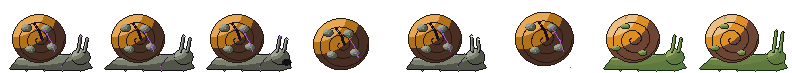
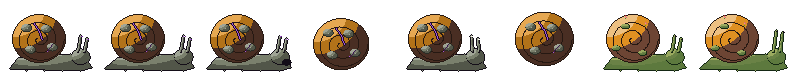
Corregir grietas y patas en Konokono, Pembe y Petrino y detallar al Jabalí de Hierro

Changed region(s): [[0.4242, 0.7671, 0.4545, 0.7945]]

diff --git a/herramientas/dibujar_criaturas.py b/herramientas/dibujar_criaturas.py
@@ -150,7 +150,9 @@ class Hoja:
         else:
             self.linea(puntos, "giza", 1, solo_encima=True)
             mitad = puntos[len(puntos) // 2]
-            self.px(mitad[0], mitad[1], "giza", brillo)
+            mx, my = int(round(mitad[0])), int(round(mitad[1]))
+            if 0 <= mx < self.w and 0 <= my < self.h and self.mat[my, mx] != "":
+                self.px(mx, my, "giza", brillo)
 
     def imagen(self, contorno=True):
         img = Image.new("RGBA", (self.w, self.h), (0, 0, 0, 0))
@@ -210,7 +212,7 @@ def corteza(h, mascara, azar, paso=3, inclinacion=0.15, desde=0):
             if mascara[y, x]:
                 u = x + math.sin(y * 0.35 + x * 0.1) * 0.8 + y * inclinacion
                 if (u + desde) % paso < 0.9 and azar.random() < 0.85:
-                    h.oscurecer(np.eye(1, dtype=bool) if False else _uno(h, x, y), 1, minimo=1)
+                    h.oscurecer(_uno(h, x, y), 1, minimo=1)
 
 
 def _uno(h, x, y):
@@ -254,18 +256,19 @@ def petrino(pose):
                 (cx + 1, arriba), (cx + 3, arriba - 2), (cx + 5, arriba + 1), (cx + 6, arriba + 2)]
     cuerpo = h.poligono(contorno + astillas[::-1])
     cuerpo |= h.poligono([(cx - 6, arriba + 2)] + astillas + [(cx + 6, arriba + 4), (cx - 6, arriba + 4)])
-    h.forma(cuerpo, "piedra", esfera=(cx - 1, arriba + 8, 9.5, 11))
+    h.forma(cuerpo, "piedra", esfera=(cx - 1.5, arriba + 7, 9.0, 10.5))
+    corteza(h, cuerpo & (h.yy >= arriba + 4), azar, paso=3, inclinacion=0.12)
     # el corte de arriba: anillos de la madera hechos piedra
     h.forma(h.elipse(cx, arriba + 2.2, 5.5, 1.6) & cuerpo, "piedra", plano=3, separar=False)
     h.px(cx - 1, arriba + 2, "piedra", 2)
     h.px(cx + 2, arriba + 2, "piedra", 2)
-    # surcos de corteza
+    # surcos de corteza y aristas iluminadas arriba a la izquierda
     for x in (cx - 5, cx - 2, cx + 3, cx + 6):
-        h.linea([(x, arriba + 5 + (x % 2)), (x + (1 if x > cx else -1) * 0.5, 18 - baja * 0.3)], "piedra", 1, solo_encima=True)
-    h.aclarar(h.elipse(cx - 4, arriba + 7, 1.2, 3) & cuerpo, 1)
+        h.linea([(x, arriba + 5 + (x % 2)), (x + (1 if x > cx else -1) * 0.5, 17 - baja * 0.3)], "piedra", 1, solo_encima=True)
+    h.aclarar(h.elipse(cx - 4.5, arriba + 6.5, 1.8, 3.5) & cuerpo, 1)
     # nudo como nariz
-    h.forma(h.elipse(cx + 0.5, arriba + 8.5, 1.6, 1.3), "piedra", maximo=3)
-    h.px(cx + 1, arriba + 9, "piedra", 0)
+    h.forma(h.elipse(cx + 0.5, arriba + 8.0, 1.6, 1.3), "piedra", maximo=3)
+    h.px(cx + 1, arriba + 8.5, "piedra", 0)
     # ojos de grieta
     ojo_y = arriba + 6
     for ox in (-3, 3):
@@ -287,15 +290,16 @@ def petrino(pose):
         for ox in (-3, 3):
             h.px(cx + ox - 1, ojo_y - 1, "giza", 3)
             h.px(cx + ox + 1, ojo_y - 1, "giza", 3)
-    # corazón violeta del pecho y sus venas
-    pecho = (cx - 1, arriba + 12)
-    h.grieta([(pecho[0] - 3, pecho[1] - 2), (pecho[0] - 1, pecho[1]), (pecho[0], pecho[1] + 2), (pecho[0] + 2, pecho[1] + 3)])
-    h.px(pecho[0], pecho[1] + 1, "giza", 3)
-    h.px(pecho[0] - 1, pecho[1], "giza", 2)
-    # líquen muerto y una piedrecita encima
-    for (x, y) in ((cx - 6, arriba + 10), (cx - 5, arriba + 11), (cx + 5, arriba + 13), (cx + 6, arriba + 12)):
+    # corazón violeta del pecho y sus venas (dentro del torso, sin salirse por abajo)
+    pecho = (cx - 1, arriba + 10)
+    h.grieta([(pecho[0] - 3, pecho[1] - 1), (pecho[0] - 1, pecho[1]), (pecho[0], pecho[1] + 1), (pecho[0] + 2, pecho[1] + 2)])
+    h.px(pecho[0], pecho[1], "giza", 3)
+    h.px(pecho[0] - 1, pecho[1] + 1, "giza", 2)
+    # líquen musgoso y una piedrecita encima
+    for (x, y) in ((cx - 6, arriba + 10), (cx - 5, arriba + 11), (cx + 5, arriba + 12), (cx + 6, arriba + 11)):
         h.px(x, y, "liquen", 2)
     h.px(cx - 5, arriba + 10, "liquen", 3)
+    h.px(cx + 5, arriba + 11, "liquen", 3)
     h.forma(h.elipse(cx + 3, arriba - 2.5, 1.6, 1.2), "piedra", maximo=3)
     # brazos de raicilla
     brazo = -2 if embiste else (1 if paso in (0, 2) else 0)

diff --git a/herramientas/dibujar_jabali.py b/herramientas/dibujar_jabali.py
@@ -72,11 +72,14 @@ class Dibujo:
 
 
 def placas(d, xs, y, r=2.6):
-    """Placas de hierro solapadas por el lomo, con un filo de óxido."""
+    """Placas de hierro solapadas por el lomo, con remache, brillo y filo de óxido."""
     for i, x in enumerate(xs):
-        d.elipse(x, y + (i % 2) * 0.4, r, r * 0.8, HIERRO)
-        d.p(x + r * 0.6, y + r * 0.5, OXIDO[1])
-        d.p(x - r * 0.4, y - r * 0.5, HIERRO[4])
+        yy = y + (i % 2) * 0.4
+        d.elipse(x, yy, r, r * 0.8, HIERRO)
+        d.p(x + r * 0.5, yy + r * 0.4, OXIDO[1])
+        d.p(x, yy + r * 0.5, OXIDO[0])
+        d.p(x - r * 0.4, yy - r * 0.4, HIERRO[4])
+        d.p(x, yy, HIERRO[0])
 
 
 def lado(fot):
@@ -102,13 +105,15 @@ def lado(fot):
             d.p(xx + 1, y, PELO[0] if atras else PELO[1])
         d.p(x + dx, 19, "1a1210")
         d.p(x + dx + 1, 19, "1a1210")
-    # cuerpo: grupa pequeña detrás y hombros grandes delante
+    # cuerpo: grupa pequeña detrás y hombros grandes delante con textura de cerdas
     d.elipse(8.5, cy + 0.5, 5.2, 4.4, PELO)
     d.elipse(14.5, cy - 0.5, 6.4, 5.4, PELO)
+    for (cx, cy_p, col) in ((7, cy, PELO[3]), (11, cy + 1, PELO[1]), (14, cy, PELO[3]), (16, cy + 2, PELO[1])):
+        d.p(cx, cy_p, col)
     # tripa en sombra
     for x in range(5, 20):
         d.p(x, cy + 4 - (1 if x < 8 or x > 17 else 0), PELO[0])
-    # placas de hierro por el lomo y crin de cerdas
+    # placas de hierro por el lomo y crin de cerdas erizadas
     placas(d, [7.0, 10.0, 13.0, 16.0], cy - 4.0, 2.5)
     for x in range(17, 21):
         d.p(x, cy - 5 + (x % 2), PELO[4])
@@ -138,12 +143,15 @@ def lado(fot):
     d.p(24, hy + 3, COLMILLO[0])
     d.p(25, hy + 2, COLMILLO[1])
     d.p(25, hy + 1, COLMILLO[2])
-    # ojo de Giza (brilla más al embestir)
+    # ojo de Giza (brilla más al embestir, con estela violeta)
     d.p(22, hy - 2, OJO[2] if corre or prep else OJO[1])
-    d.p(21, hy - 2, OJO[0])
+    d.p(21, hy - 2, OJO[1] if corre or prep else OJO[0])
+    if corre:
+        d.p(20, hy - 2, OJO[0])
     if prep:
-        for (x, y) in ((3, 19), (1, 18), (4, 17), (2, 16)):
-            d.p(x, y, "684937")
+        # terrones compactos al escarbar
+        for (x, y, col) in ((2, 18, "8a624a"), (3, 18, "684937"), (2, 19, "684937"), (4, 16, "8a624a"), (4, 17, "684937")):
+            d.p(x, y, col)
     return d.contorno()
 
 

diff --git a/herramientas/dibujar_konokono.py b/herramientas/dibujar_konokono.py
@@ -51,7 +51,19 @@ class HojaE(Hoja):
         return super().linea([(x * E, y * E) for (x, y) in puntos], mat, tono, solo_encima)
 
     def grieta(self, puntos, ancha=False, brillo=3):
-        return super().grieta([(x * E, y * E) for (x, y) in puntos], ancha, brillo)
+        pts_e = [(x * E, y * E) for (x, y) in puntos]
+        if ancha:
+            for (x, y) in dc._puntos_de(pts_e):
+                for dx, dy in ((1, 0), (0, 1), (-1, 0), (0, -1)):
+                    if 0 <= x + dx < self.w and 0 <= y + dy < self.h and self.mat[y + dy, x + dx] not in ("", "giza"):
+                        self.mat[y + dy, x + dx] = "giza"
+                        self.tono[y + dy, x + dx] = 0
+            Hoja.linea(self, pts_e, "giza", brillo, solo_encima=True)
+        else:
+            Hoja.linea(self, pts_e, "giza", 1, solo_encima=True)
+            mx, my = int(round(pts_e[len(pts_e) // 2][0])), int(round(pts_e[len(pts_e) // 2][1]))
+            if 0 <= mx < self.w and 0 <= my < self.h and self.mat[my, mx] != "":
+                Hoja.px(self, mx, my, "giza", brillo)
 
 
 def concha(h, cx, cy, r, libre=False, giro=0.0):

diff --git a/herramientas/dibujar_pembe.py b/herramientas/dibujar_pembe.py
@@ -32,7 +32,7 @@ SUELO = 64
 def pata(h, x0, y0, x1, y1, rodilla, mat="pelo", oscuro=False):
     """Una pata fina con rodilla y pezuña."""
     kx, ky = rodilla
-    m = h.trazo([(x0, y0), (kx, ky), (x1, y1 - 1)], [3.2, 2.2, 1.8])
+    m = h.trazo([(x0, y0), (kx, ky), (x1, y1)], [3.2, 2.3, 2.0])
     h.forma(m, mat, minimo=1, maximo=2 if oscuro else 3)
     h.px(x1, y1, "pezuna", 1)
     h.px(x1 + 1, y1, "pezuna", 1)
@@ -158,10 +158,11 @@ def cuerpo(h, f, vivo=False):
     if inclina:
         giro = 45.0
     astas(h, hx - 2, hy - 3, vivas=vivo, giro=giro)
-    # al escarbar: tierra
+    # al escarbar: terrón compacto levantado junto a la pezuña delantera
     if prep:
-        for (x, y) in ((50, SUELO - 1), (53, SUELO - 3), (55, SUELO - 1), (51, SUELO - 4)):
-            h.px(x, y, "tierra", 2)
+        terron = h.elipse(49.5, SUELO - 1.5, 2.4, 1.4)
+        h.forma(terron, "tierra", minimo=1, maximo=3)
+        h.px(48, SUELO - 2, "tierra", 3)
 
 
 def fotograma(f):
